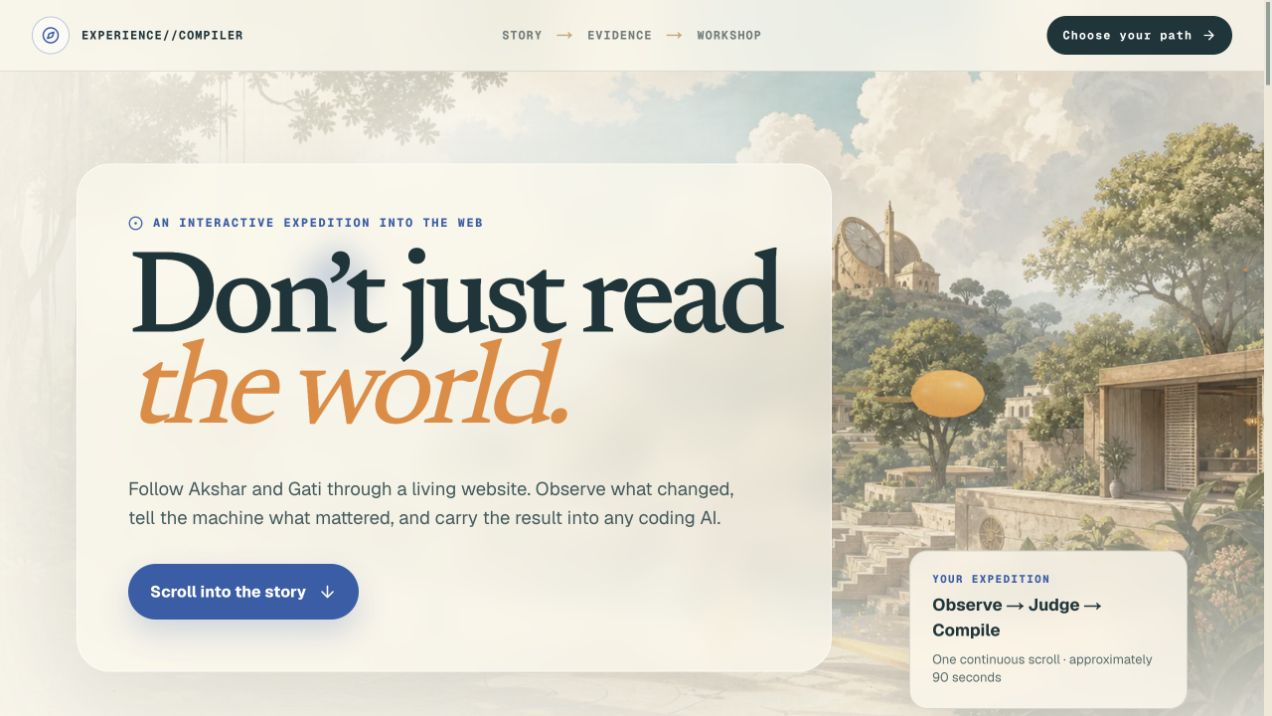
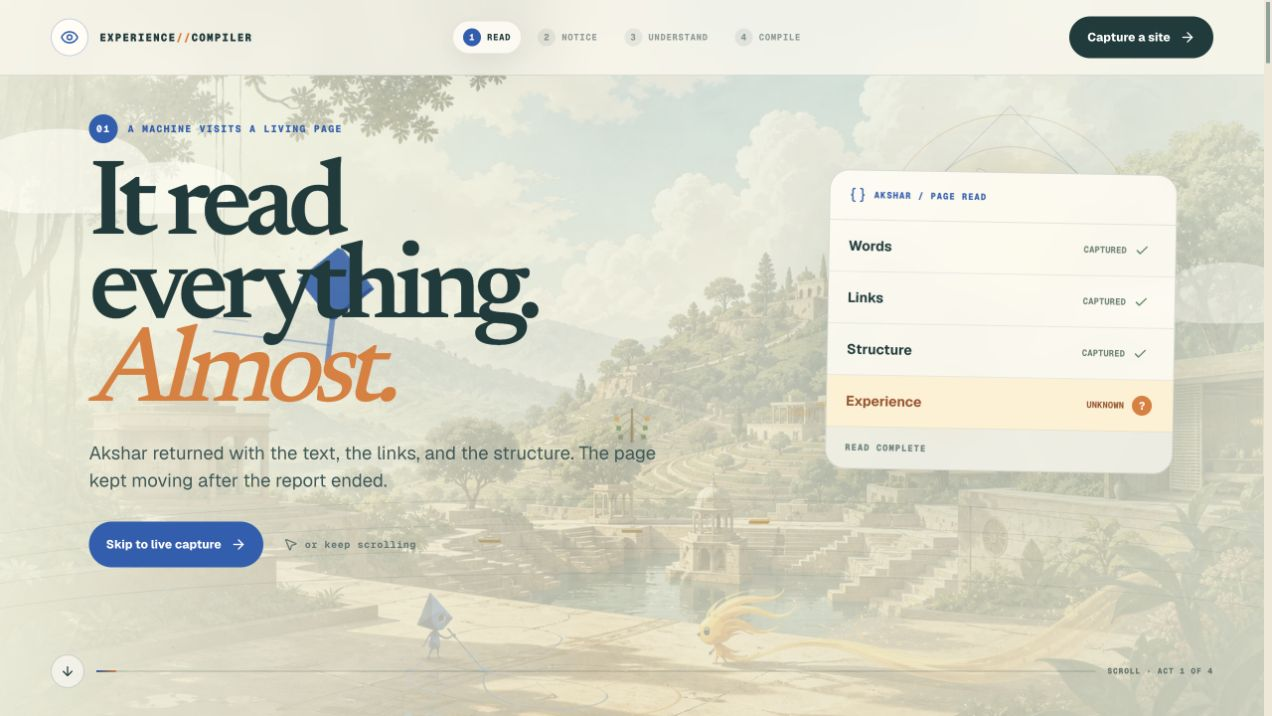
docs: rebuild release proof with production captures

diff --git a/README.md b/README.md
@@ -27,6 +27,22 @@ A judge can paste any public URL and use the real workflow:
 
 No login or prepared per-site response is required. A workshop session persists locally in IndexedDB so a browser refresh does not destroy captured evidence or human judgment.
 
+![Five-moment Bright Data experience trace](public/readme/live-evidence.png)
+
+_Fresh production run against `razorpay.com/foundation-model`: one structured trace plus five rendered browser states from the supplied URL._
+
+### Verified production path
+
+| Stage | Production proof |
+| --- | --- |
+| Input | arbitrary public URL entered in the deployed interface |
+| Perception | custom Bright Data collector + Scraping Browser at 0%, 25%, 50%, 75%, and deepest reachable scroll |
+| Interpretation | Fireworks-hosted Kimi K2.6, followed by deterministic evidence-citation checks |
+| Judgment | explicit human Keep/Reject choice and optional explanation |
+| Compilation | verified Project Genome + downloadable Experience Pack |
+
+The redacted [five-moment verification receipt](evidence/brightdata/razorpay-five-moment-verification.json) records the production source, evidence layers, sampled positions, model input mode, and verifier result without credentials or screenshot payloads.
+
 ## Why this is different
 
 A screenshot captures appearance. A DOM scrape captures symbols and structure. Neither establishes the ordered experience around them: what appeared after a scroll, what remained fixed, or what a particular human loved.
@@ -41,6 +57,10 @@ Experience Compiler keeps three truths distinct:
 
 That is why evidence basis and human judgment are separate fields. Something can be directly observed and still be disliked; something can be inferred and preferred.
 
+![Observed, inferred, and unresolved evidence lanes](public/readme/provenance.png)
+
+_The interface does not promote an inference into an observation, and it keeps missing continuous motion, easing, hover, audio, and implementation details visible as unknowns._
+
 ## Bright Data is the perception layer
 
 Bright Data is used twice in every complete live run:
@@ -51,6 +71,8 @@ Bright Data is used twice in every complete live run:
 If the rendered layer is unavailable, the interface says so and the model receives measurements only. It never labels a measurement-only run as visual input. If collection fails, no stored response is silently substituted.
 
 The separate [Drift Lab](https://experience-genome.vercel.app/lab/drift) is a controlled fixture for the repeatable break → same-collector heal → recover proof. It is deliberately separate from arbitrary live web capture.
+
+![Controlled same-collector healing proof](public/readme/drift-lab.png)
 
 Historical Bright Data artifacts, including failed attempts, the controlled recovery ledger, and a redacted five-moment production verification receipt, remain in [`evidence/brightdata`](evidence/brightdata).
 
@@ -114,6 +136,10 @@ Core stack:
 - Vercel for deployment; no database and no authentication are required
 
 ## Experience Pack
+
+![Compiled Project Genome and portable Experience Pack](public/readme/project-genome.png)
+
+_The source experience becomes attributed, transformed rules—not copied pixels. The compiled artifact can be copied as agent context or downloaded as a vendor-neutral pack._
 
 ```text
 experience-pack/
@@ -187,7 +213,7 @@ Submission helpers: [`docs/DEMO_SCRIPT.md`](docs/DEMO_SCRIPT.md) · [`docs/SUBMI
 ## Truth and anti-copy contract
 
 - Observations, inferences, human statements, and unresolved dimensions remain visibly distinct.
-- Three sampled frames do not establish frame-perfect timing, easing, hover physics, audio, or universal causation.
+- Five sampled frames do not establish frame-perfect timing, easing, hover physics, audio, authorial intent, or universal causation.
 - Every non-invented project rule must retain a judged source reference.
 - Invented rules cite no source evidence.
 - Outputs prohibit reusing source assets, copy, layout, geometry, exact timing, camera paths, or brand language.
